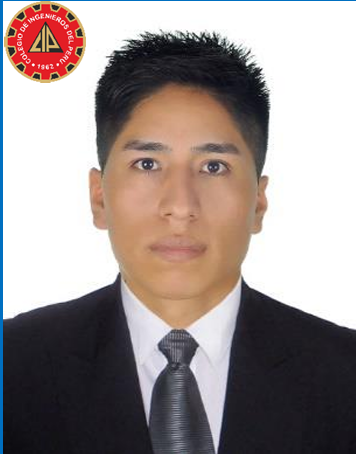
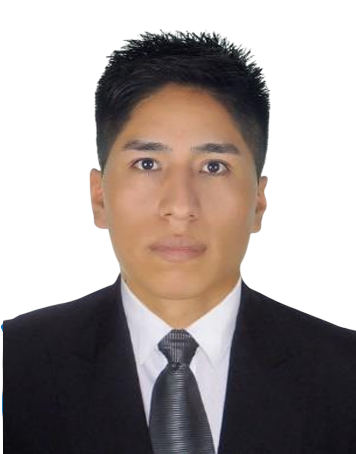
add

diff --git a/app/nosotros/page.tsx b/app/nosotros/page.tsx
@@ -52,7 +52,7 @@ const staff = [
   },
   {
     role: 'Profesional del staff',
-    name: 'Biól. Carla Johanna Cepeda Agurto',
+    name: 'Blga. Carla Johanna Cepeda Agurto',
     title: 'Especialista en Gestión Ambiental',
     credential: 'CBP: 13200',
     description:
@@ -68,6 +68,16 @@ const staff = [
     description:
       'Ingeniera ambiental colegiada, con maestría en Ecología y Gestión Ambiental y doctorado en Ciencias Ambientales concluido. Docente universitaria e investigadora con experiencia en monitoreo ambiental de múltiples matrices (agua, suelo, aire, ruido), evaluación de impacto ambiental, elaboración de instrumentos de gestión ambiental y capacitación en gestión ambiental, calidad y seguridad ocupacional.',
     image: '/staff/yennifeer-arevalo.png',
+    featured: false,
+  },
+  {
+    role: 'Profesional del staff',
+    name: 'Ing. Yotnan Ames Solórzano Chávez',
+    title: 'Especialista en Minería',
+    credential: null,
+    description:
+      'Ingeniero Ambiental colegiado, con más de 5 años de experiencia profesional en la elaboración y seguimiento de Instrumentos de Gestión Ambiental (IGA), incluyendo DIA, EIA-sd e IGAFOM para la formalización minera. Especialista en la implementación y seguimiento de Sistemas de Gestión de Seguridad y Salud Ocupacional en el sector minero, así como en capacitaciones y sensibilización ambiental.',
+    image: '/staff/yotnan-solorzano.png',
     featured: false,
   },
 ]
